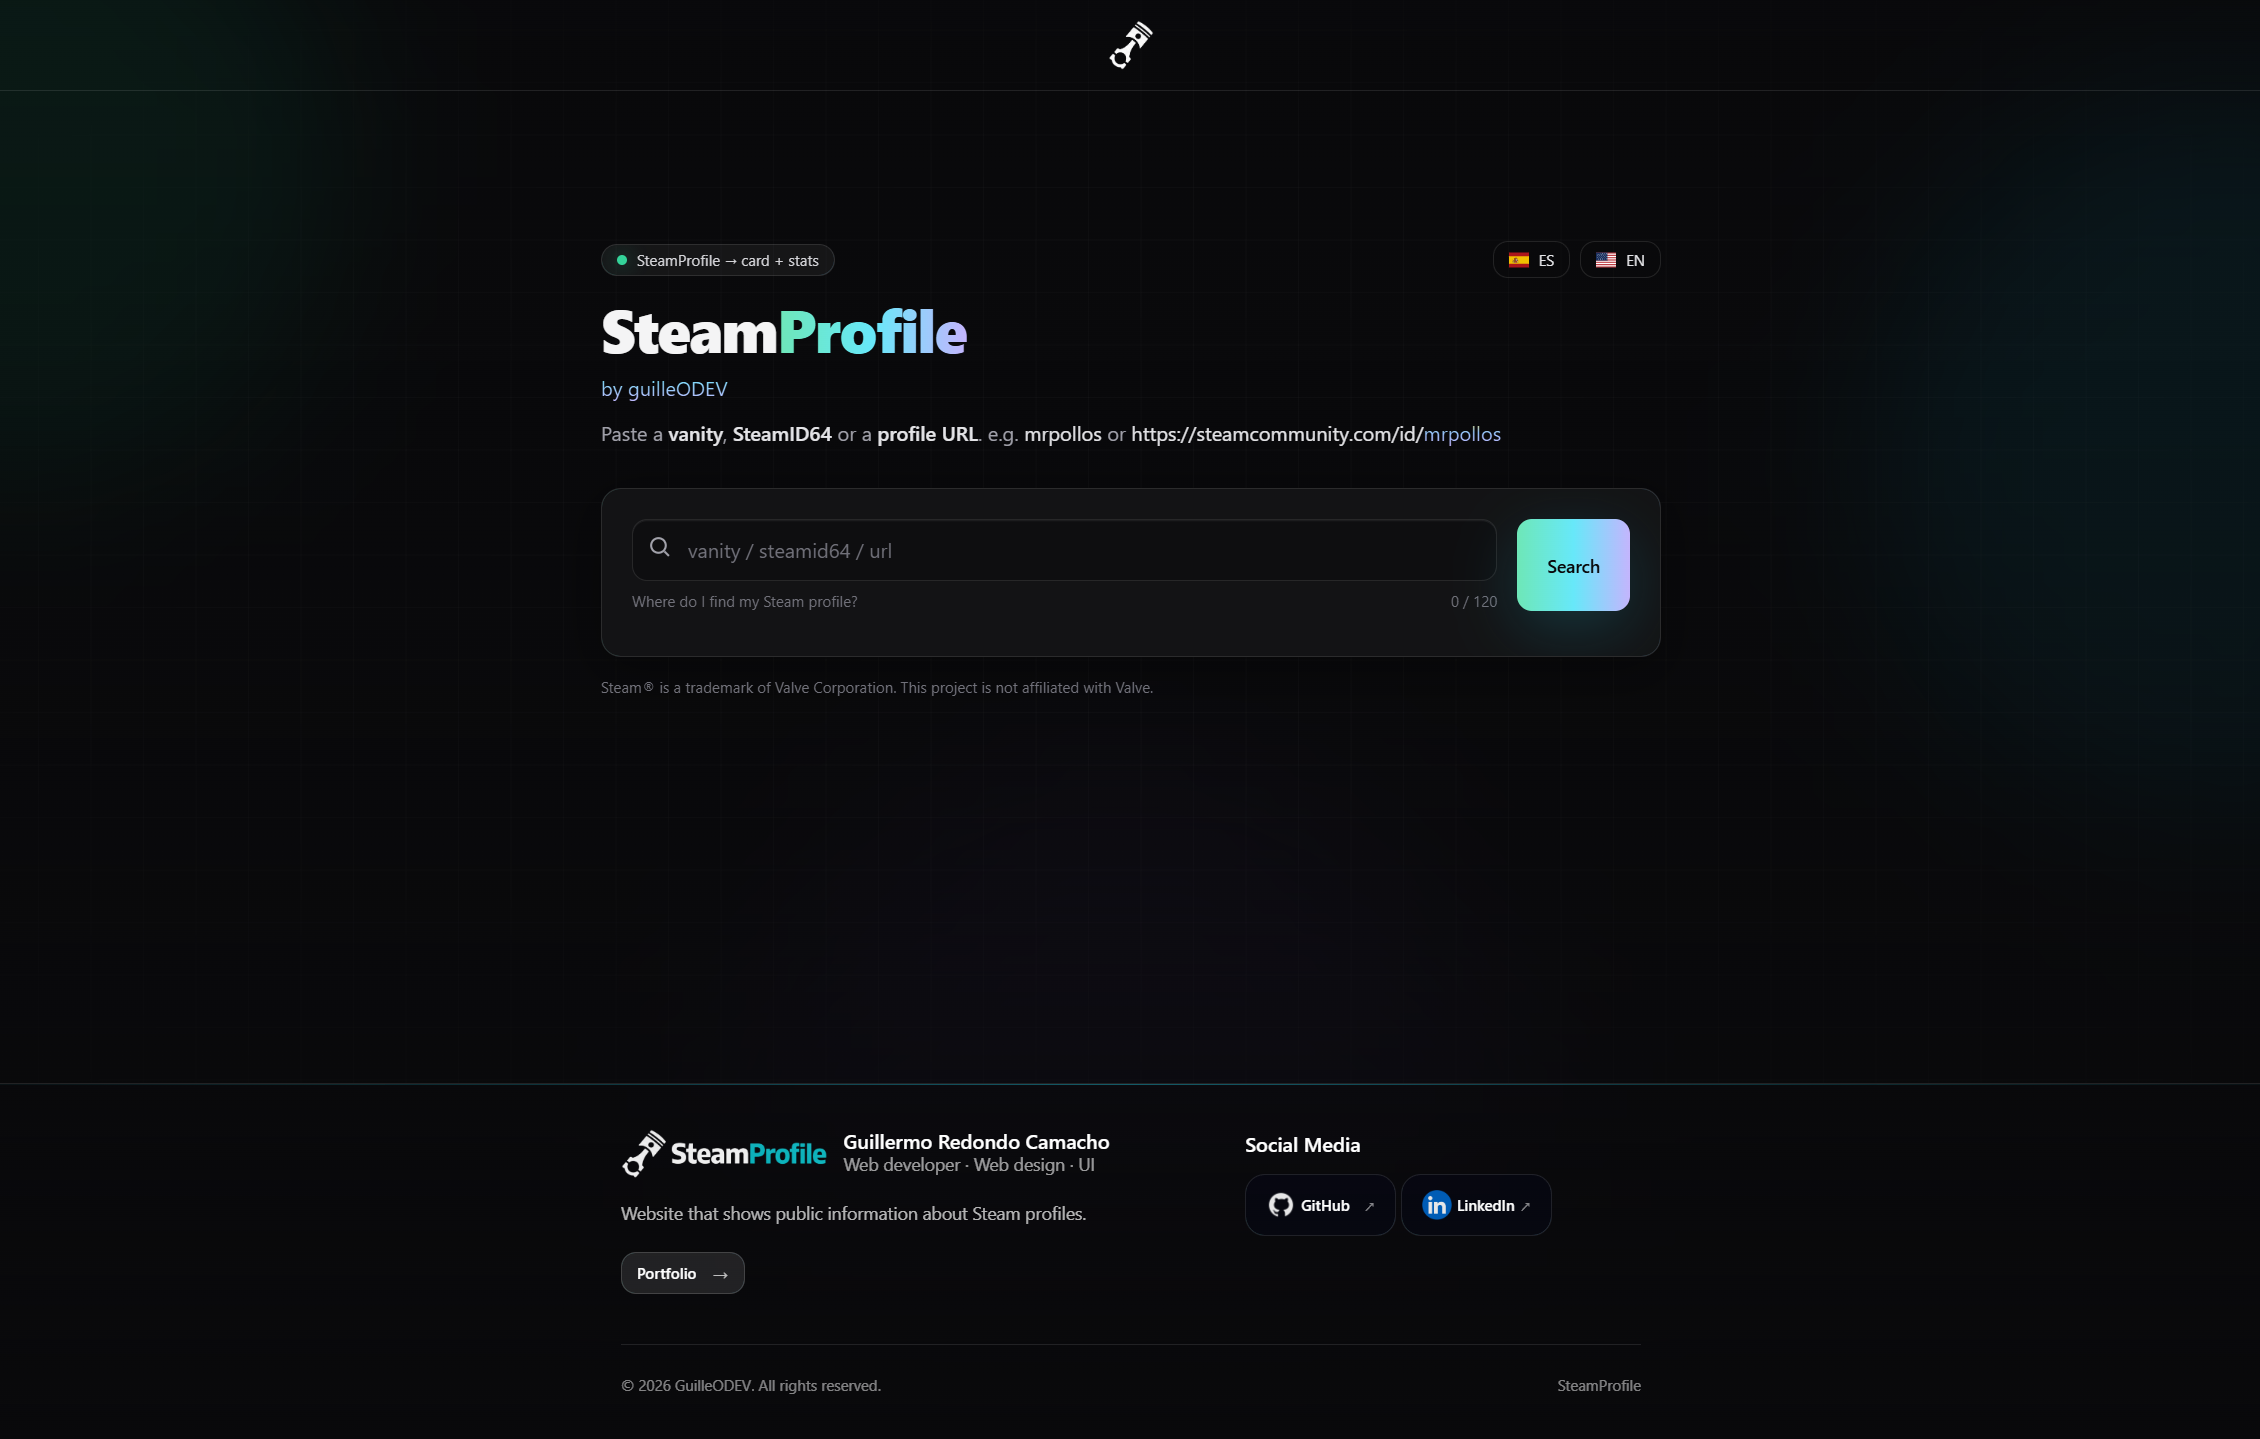
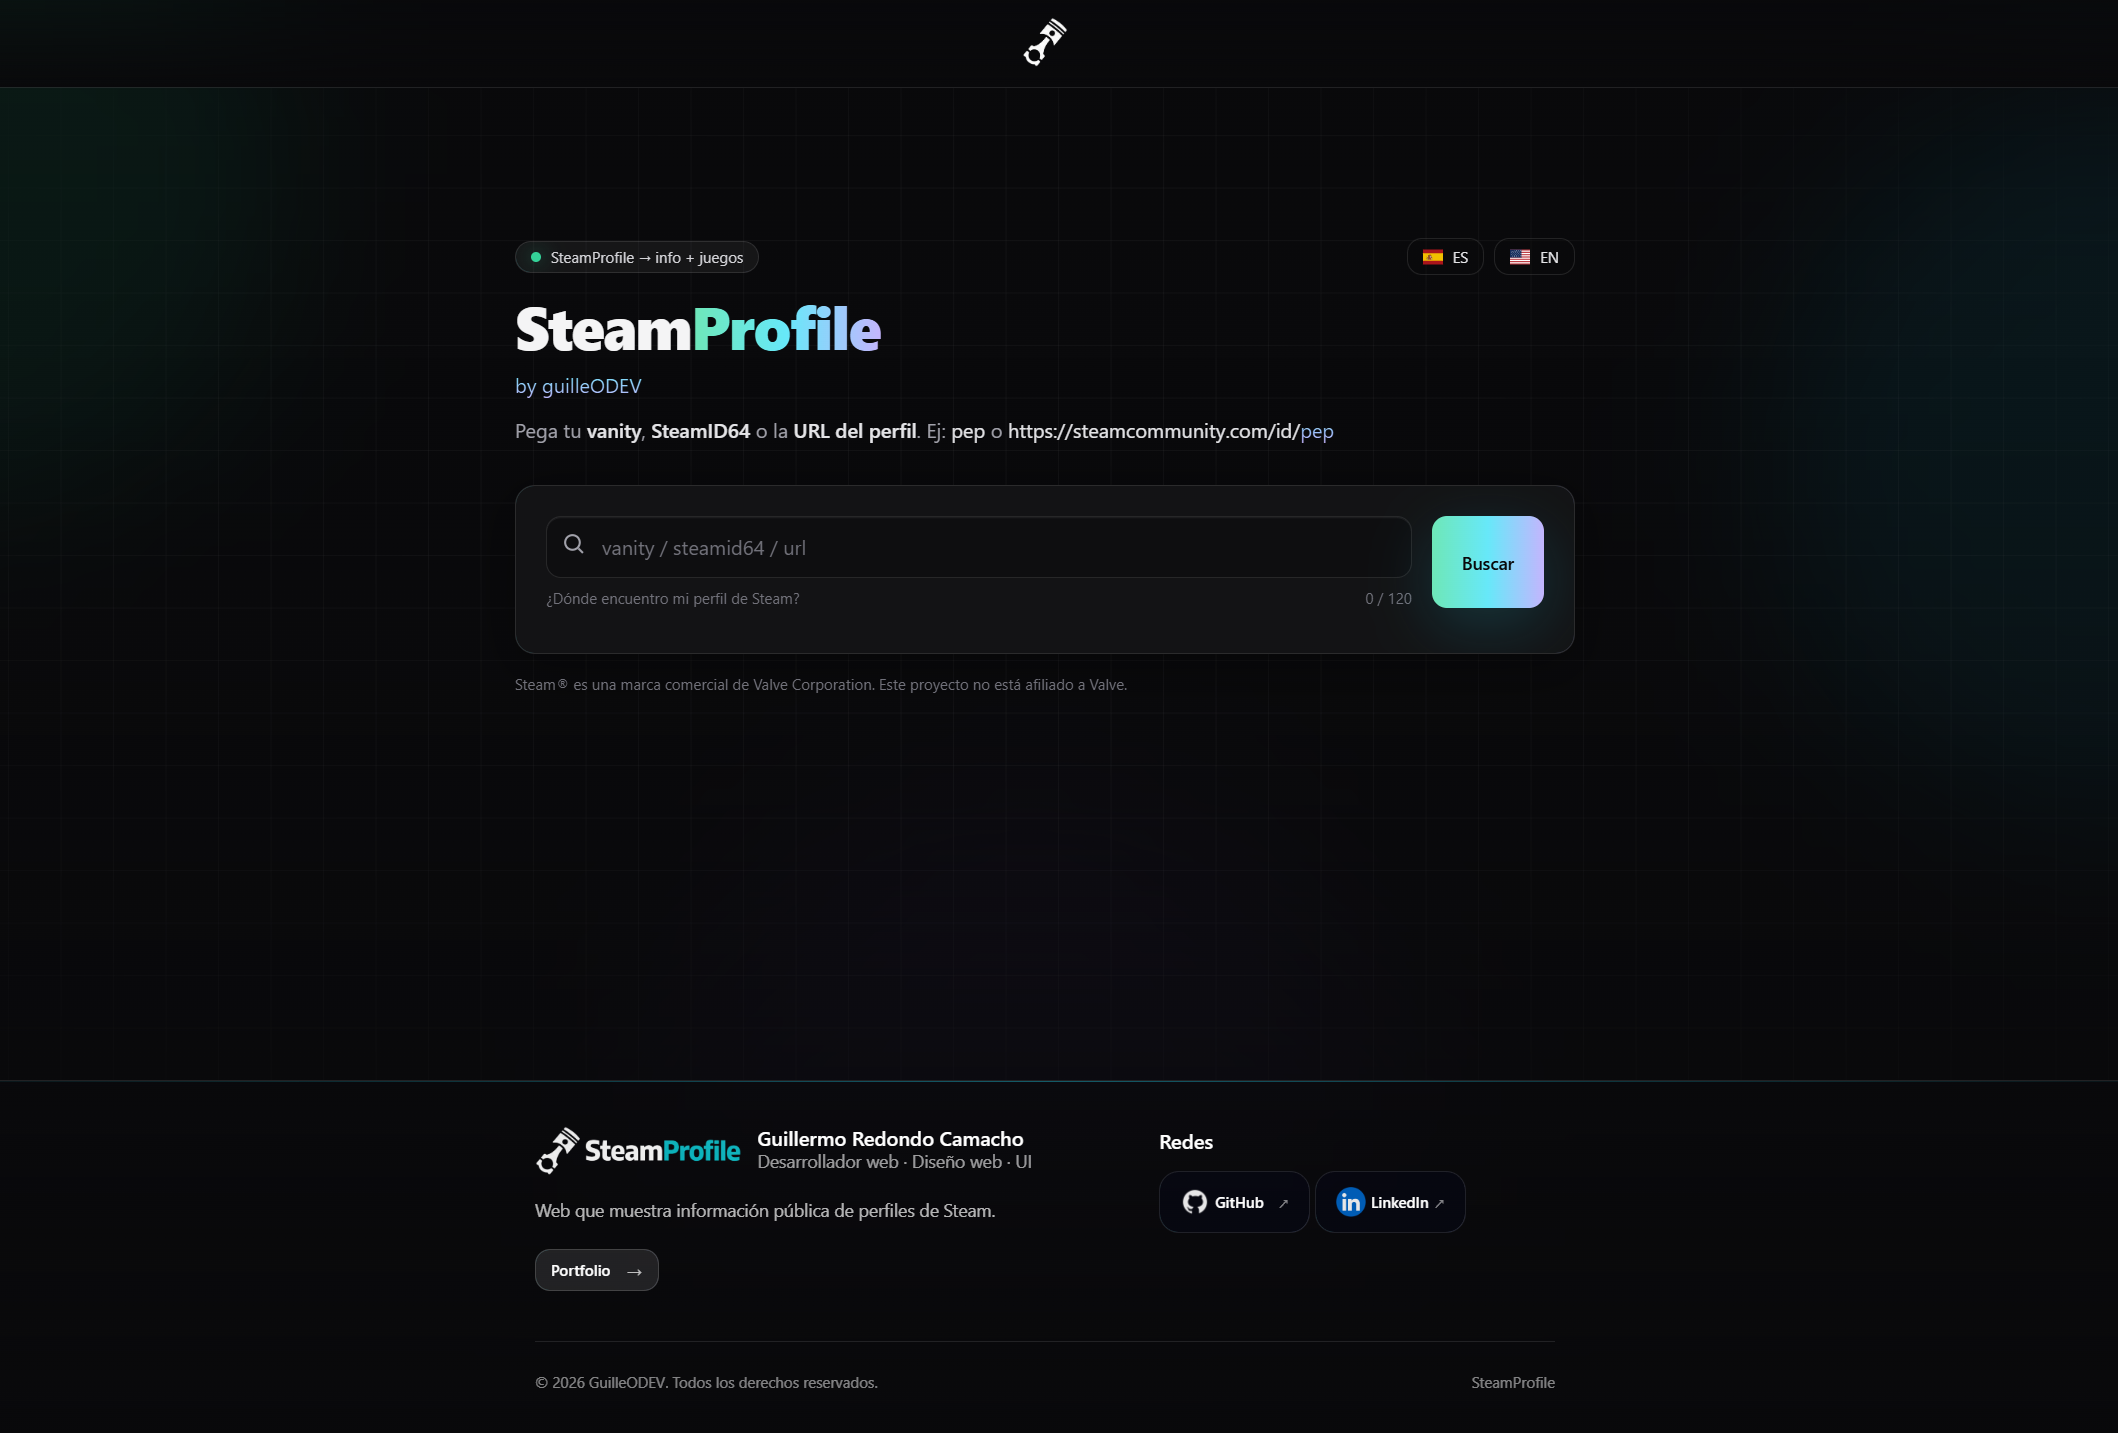
Cambio nombre user prueba, agregar nuevas capturas

diff --git a/app.js b/app.js
@@ -71,7 +71,7 @@ const I18N = {
   es: {
     badge: "SteamProfile → info + juegos",
     intro:
-      'Pega tu <span class="text-zinc-200 font-medium">vanity</span>, <span class="text-zinc-200 font-medium">SteamID64</span> o la <span class="text-zinc-200 font-medium">URL del perfil</span>. Ej: <span class="text-zinc-200">mrpollos</span> o <span class="text-zinc-200">https://steamcommunity.com/id/<span class="text-transparent bg-clip-text bg-gradient-to-b from-yellow-300 via-blue-300 to-violet-300">mrpollos</span></span>',
+      'Pega tu <span class="text-zinc-200 font-medium">vanity</span>, <span class="text-zinc-200 font-medium">SteamID64</span> o la <span class="text-zinc-200 font-medium">URL del perfil</span>. Ej: <span class="text-zinc-200">pep</span> o <span class="text-zinc-200">https://steamcommunity.com/id/<span class="text-transparent bg-clip-text bg-gradient-to-b from-yellow-300 via-blue-300 to-violet-300">pep</span></span>',
     inputPlaceholder: "vanity / steamid64 / url",
     btnGenerate: "Buscar",
 
@@ -145,7 +145,7 @@ const I18N = {
   en: {
     badge: "SteamProfile → card + stats",
     intro:
-      'Paste a <span class="text-zinc-200 font-medium">vanity</span>, <span class="text-zinc-200 font-medium">SteamID64</span> or a <span class="text-zinc-200 font-medium">profile URL</span>. e.g. <span class="text-zinc-200">mrpollos</span> or <span class="text-zinc-200">https://steamcommunity.com/id/<span class="text-transparent bg-clip-text bg-gradient-to-b from-yellow-300 via-blue-300 to-violet-300">mrpollos</span></span>',
+      'Paste a <span class="text-zinc-200 font-medium">vanity</span>, <span class="text-zinc-200 font-medium">SteamID64</span> or a <span class="text-zinc-200 font-medium">profile URL</span>. e.g. <span class="text-zinc-200">pep</span> or <span class="text-zinc-200">https://steamcommunity.com/id/<span class="text-transparent bg-clip-text bg-gradient-to-b from-yellow-300 via-blue-300 to-violet-300">pep</span></span>',
     inputPlaceholder: "vanity / steamid64 / url",
     btnGenerate: "Search",
 

diff --git a/index.html b/index.html
@@ -80,9 +80,9 @@
                     Pega tu <span class="text-zinc-200 font-medium">vanity</span>, <span
                         class="text-zinc-200 font-medium">SteamID64</span> o la
                     <span class="text-zinc-200 font-medium">URL del perfil</span>.
-                    Ej: <span class="text-zinc-200">mrpollos</span> o
+                    Ej: <span class="text-zinc-200">pep</span> o
                     <span class="text-zinc-200">https://steamcommunity.com/id/<span
-                            class="text-transparent bg-clip-text bg-gradient-to-b from-yellow-300 via-blue-300 to-violet-300">mrpollos</span>
+                            class="text-transparent bg-clip-text bg-gradient-to-b from-yellow-300 via-blue-300 to-violet-300">pep</span>
                     </span>
                 </p>
             </div>

diff --git a/README.en.md b/README.en.md
@@ -1,0 +1,81 @@
+# SteamProfile <img src="https://raw.githubusercontent.com/guilleodev/steamProfile/main/assets/img/steamProfileLogo.PNG" width="25" />
+
+<p align="right">
+  🌐 <a href="README.md"><strong>Leer en Español</strong></a>
+</p>
+
+<a href="https://steamprofile.netlify.app">
+  <img src="https://raw.githubusercontent.com/guilleodev/steamProfile/main/assets/img/capturaSteamProfile2-en.png" width="700" />
+</a>
+
+Steam User is a web application that allows you to search Steam profiles and view user information such as online status, SteamID, last seen, country, Steam level, total games, playtime, and friends list.
+
+In addition, the application analyzes the user’s library to detect and display games completed at 100%.
+
+# 🚀 Demo (Netlify)
+🔗 **Live project:** https://steamprofile.netlify.app
+
+# ⚙ Features
+- Search Steam profiles using profile URL, SteamID or vanity name  
+- Display online status, level, country and last seen  
+- General stats: total games, playtime and friends  
+- Most played games sorted by playtime  
+- Recently played games  
+- Detection and analysis of 100% completed games  
+- Multilanguage support (ES / EN)
+
+# 🌐 Languages
+ES | EN
+
+# 🛠 Tech Stack
+- **HTML5**
+- **CSS3**
+- **Tailwind**
+- **JavaScript**
+- **Steam Web API**
+- **Netlify**
+- **i18n**
+
+# 🔎 Project structure
+```text
+/steamProfile
+│── app.js
+│── index.html
+│── styles.css
+│── netlify.toml
+│── README.md
+│── README.en.md
+│── .gitignore
+│
+├── assets
+│   ├── favicon
+│   ├── flags
+│   └── img
+│       └── …
+│
+├── .netlify
+│   └── …
+│
+└── netlify
+    └── functions
+        ├── steam-profile.js
+        └── steam-achievements.js
+
+```
+    
+# 🌡 Project status
+**Finished**  
+Currently thinking about:
+- Showing more user data  
+- Displaying an estimated account value  
+
+# 🤝 Contributions
+For now, this is a personal project, but it is open to ideas and suggestions.
+
+<br/>
+
+<p align="center">
+  Made with ☕ by <strong>GuilleODEV</strong><br>
+  <a href="https://github.com/guilleodev">GitHub</a> · 
+  <a href="https://www.linkedin.com/in/guillermo-redondo-camacho/">LinkedIn</a>
+</p>
